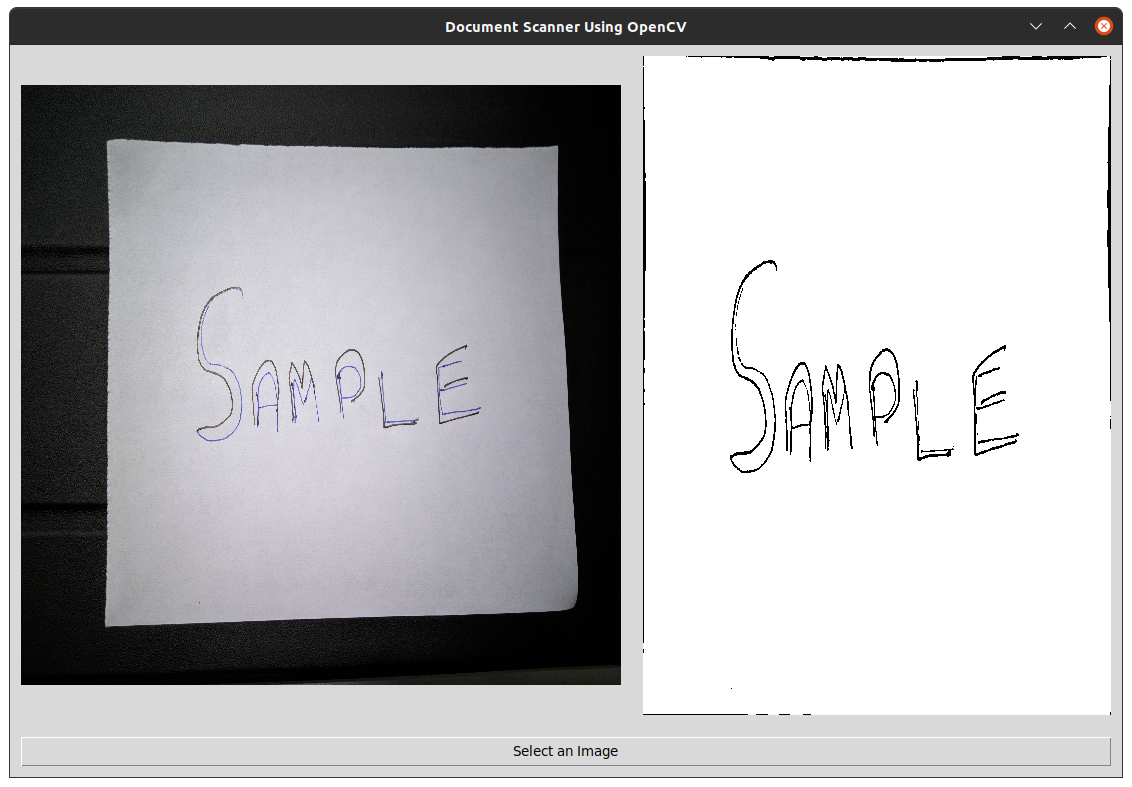
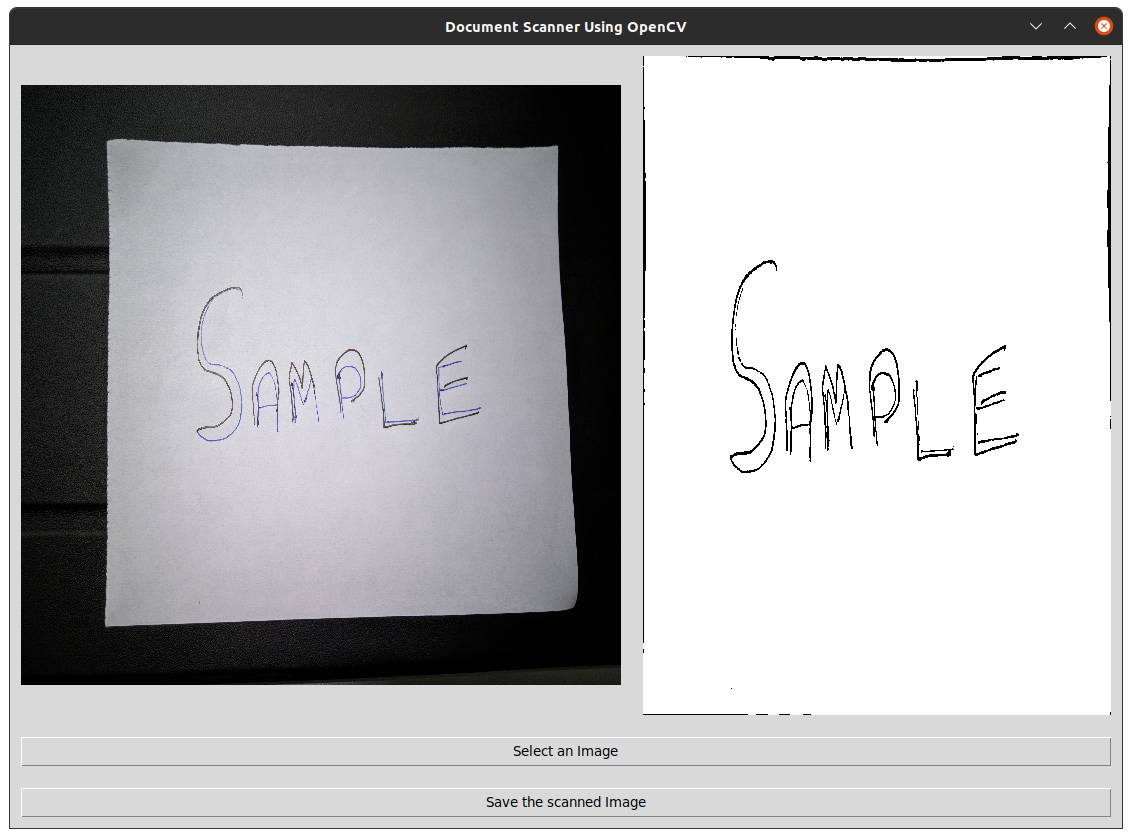
Added Save output feature

diff --git a/frontend.py b/frontend.py
@@ -1,7 +1,7 @@
 #!/usr/bin/python
 import tkinter
-from tkinter.filedialog import askopenfilename
-from tkinter import Button, Label
+from tkinter.filedialog import askopenfilename, asksaveasfilename
+from tkinter import Button, Label,messagebox
 from PIL import ImageTk, Image
 import cv2
 from Document_scanner import scanner
@@ -27,6 +27,10 @@ def open_img():
     image = cv2.cvtColor(image, cv2.COLOR_BGR2RGB)
     image = cv2.resize(image, (600,600), interpolation=cv2.INTER_NEAREST)
 
+    #return scanned_image
+    global return_file
+    return_file = scanned
+
     image = Image.fromarray(image)
     scanned = Image.fromarray(scanned)
 
@@ -47,12 +51,25 @@ def open_img():
         panelB.configure(image=scanned)
         panelA.image = image
         panelB.image = scanned
+    
+def save_img(image_file):
+    if image_file is not None:
+        save_path = asksaveasfilename(title = "Give Title", filetypes =[('Image File', '*.jpg')])
+        #print(save_path)
+        #print(image_file.shape)
+        cv2.imwrite(save_path, image_file)
+    else:
+        messagebox.showerror("Show error", "No Input image was selected")
 
 panelA = None
 panelB = None
-btn = Button(root, text ='Select an Image', command = open_img)
-btn.pack(side="bottom", fill="both", expand="yes", padx="10", pady="10")
+return_file = None
 
+btn2 = Button(root, text ='Save the scanned Image', command = lambda: save_img(return_file))
+btn2.pack(side="bottom", fill="both",expand = 'yes', padx="10", pady="10")
+
+btn = Button(root, text ='Select an Image', command = lambda: open_img())
+btn.pack(side="bottom", fill="both", expand="yes", padx="10", pady="10")
 
 root.title("Document Scanner Using OpenCV") 
 #root.geometry("700x700")
